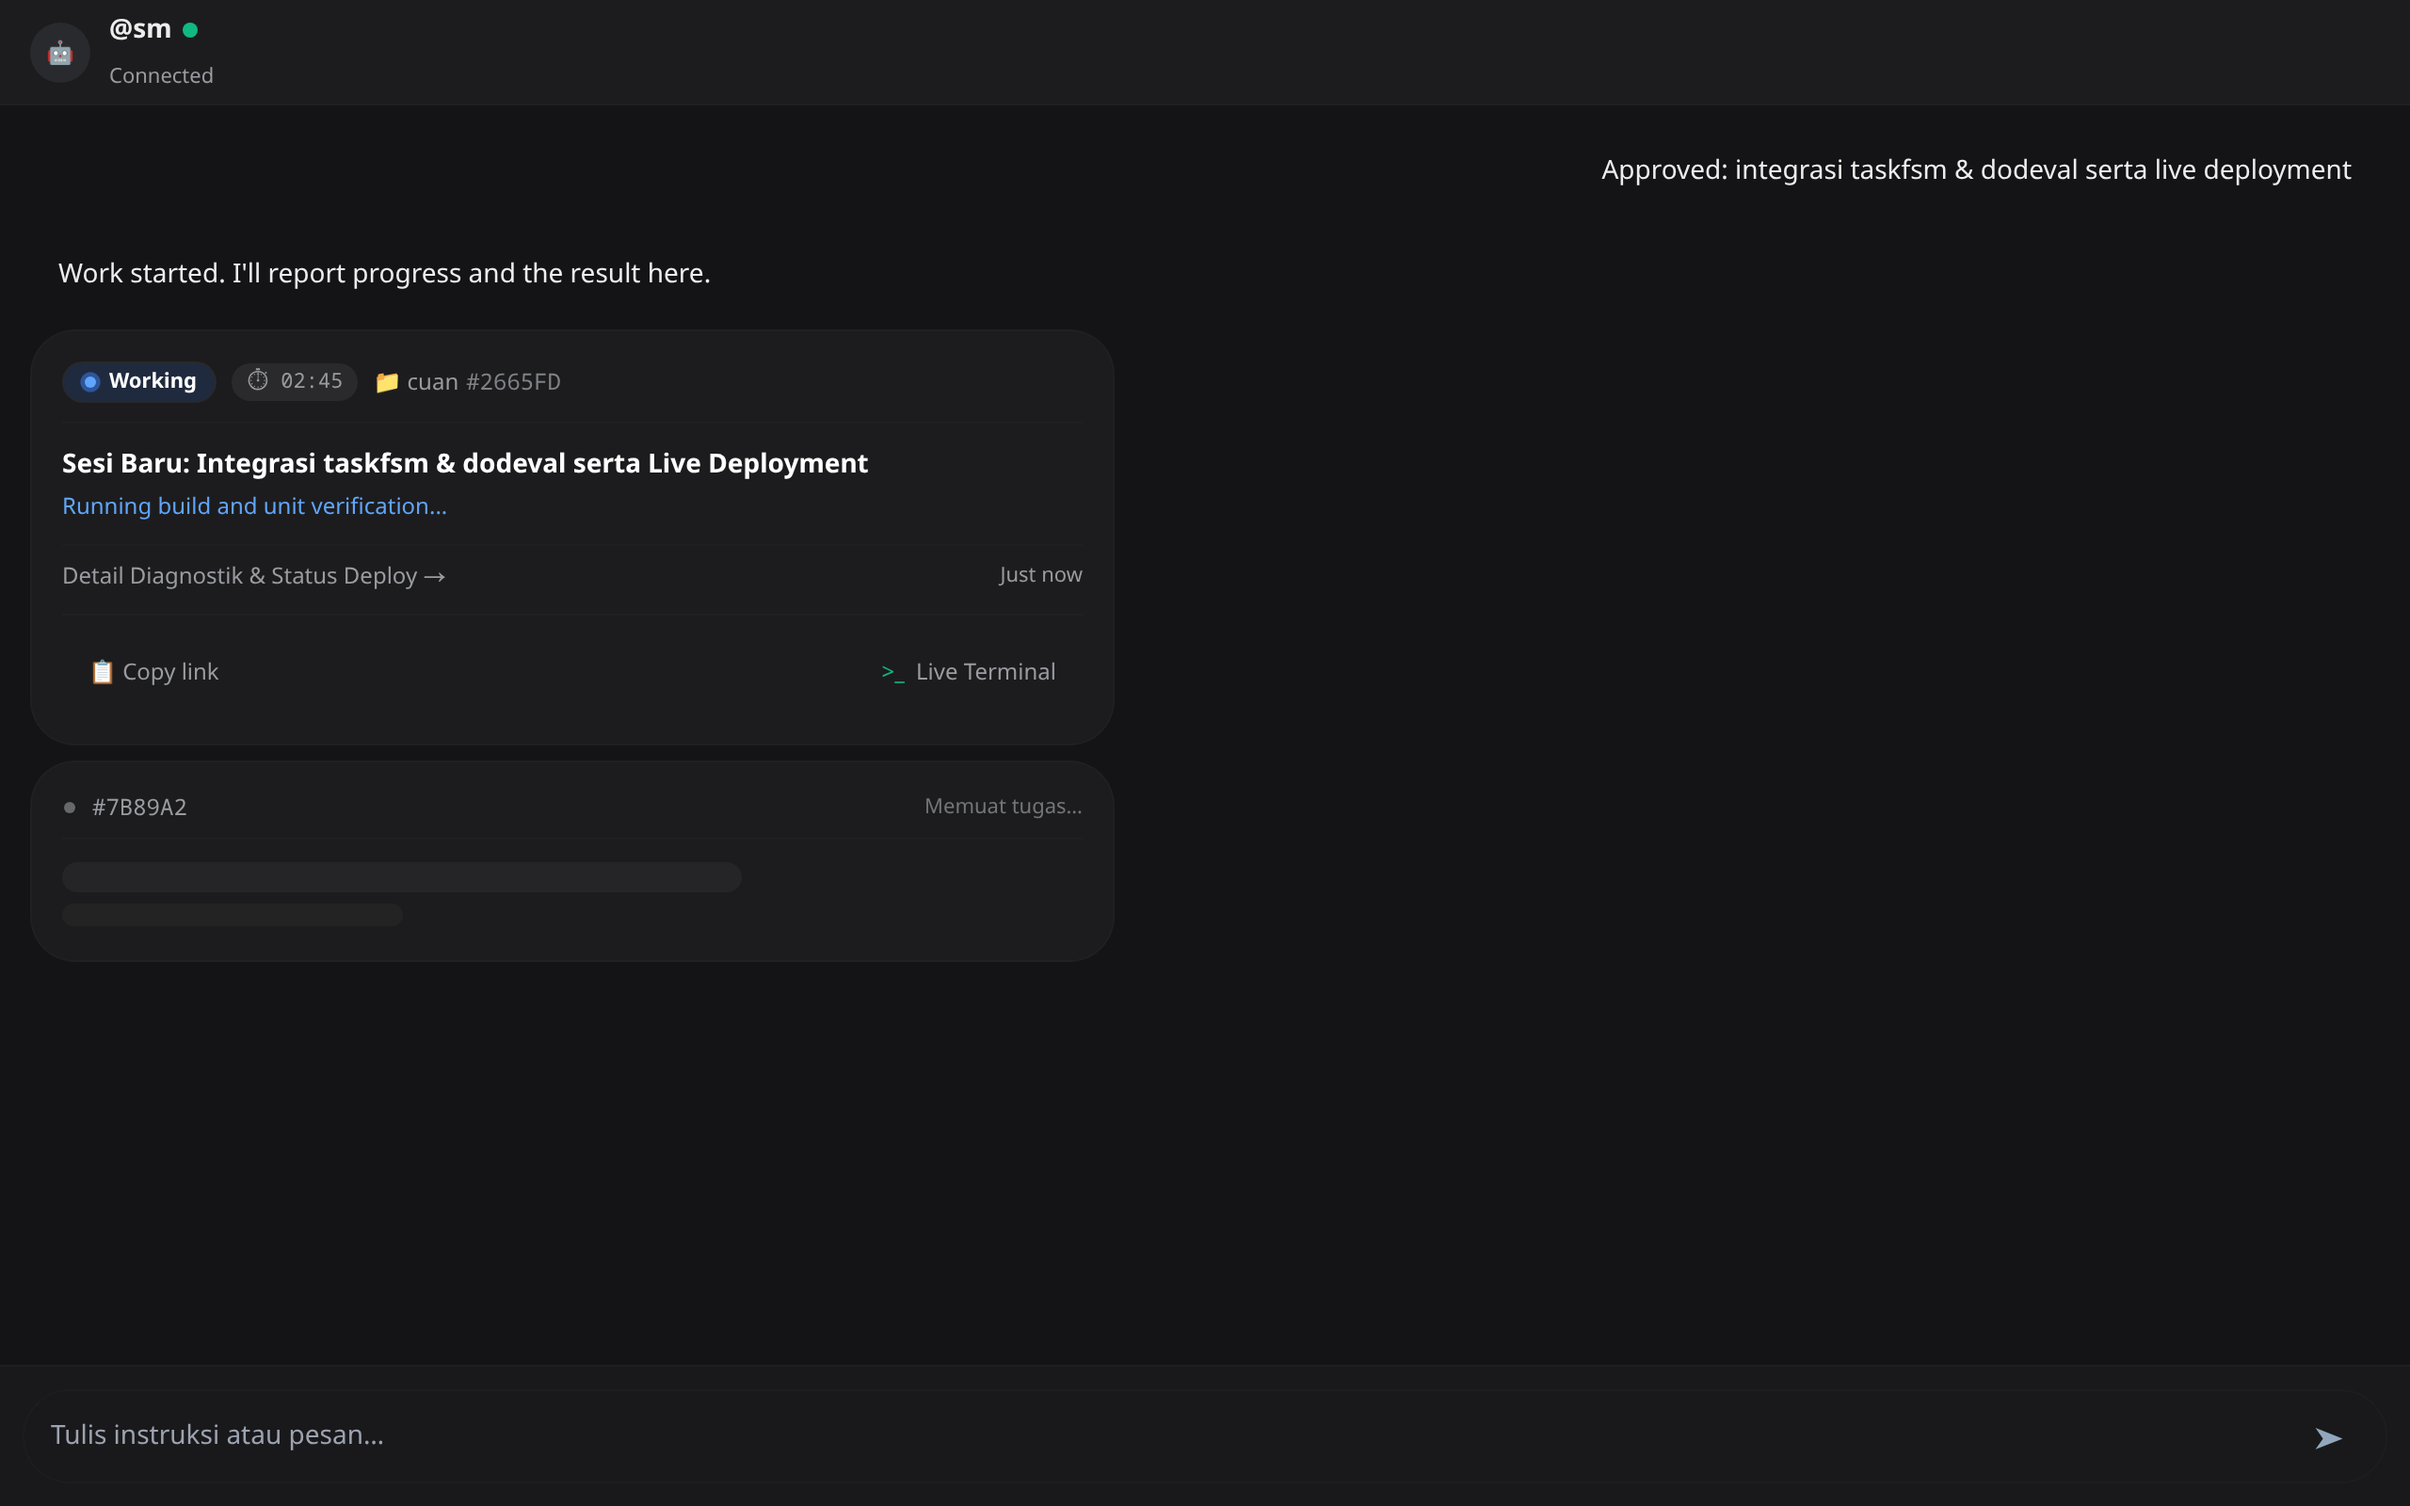
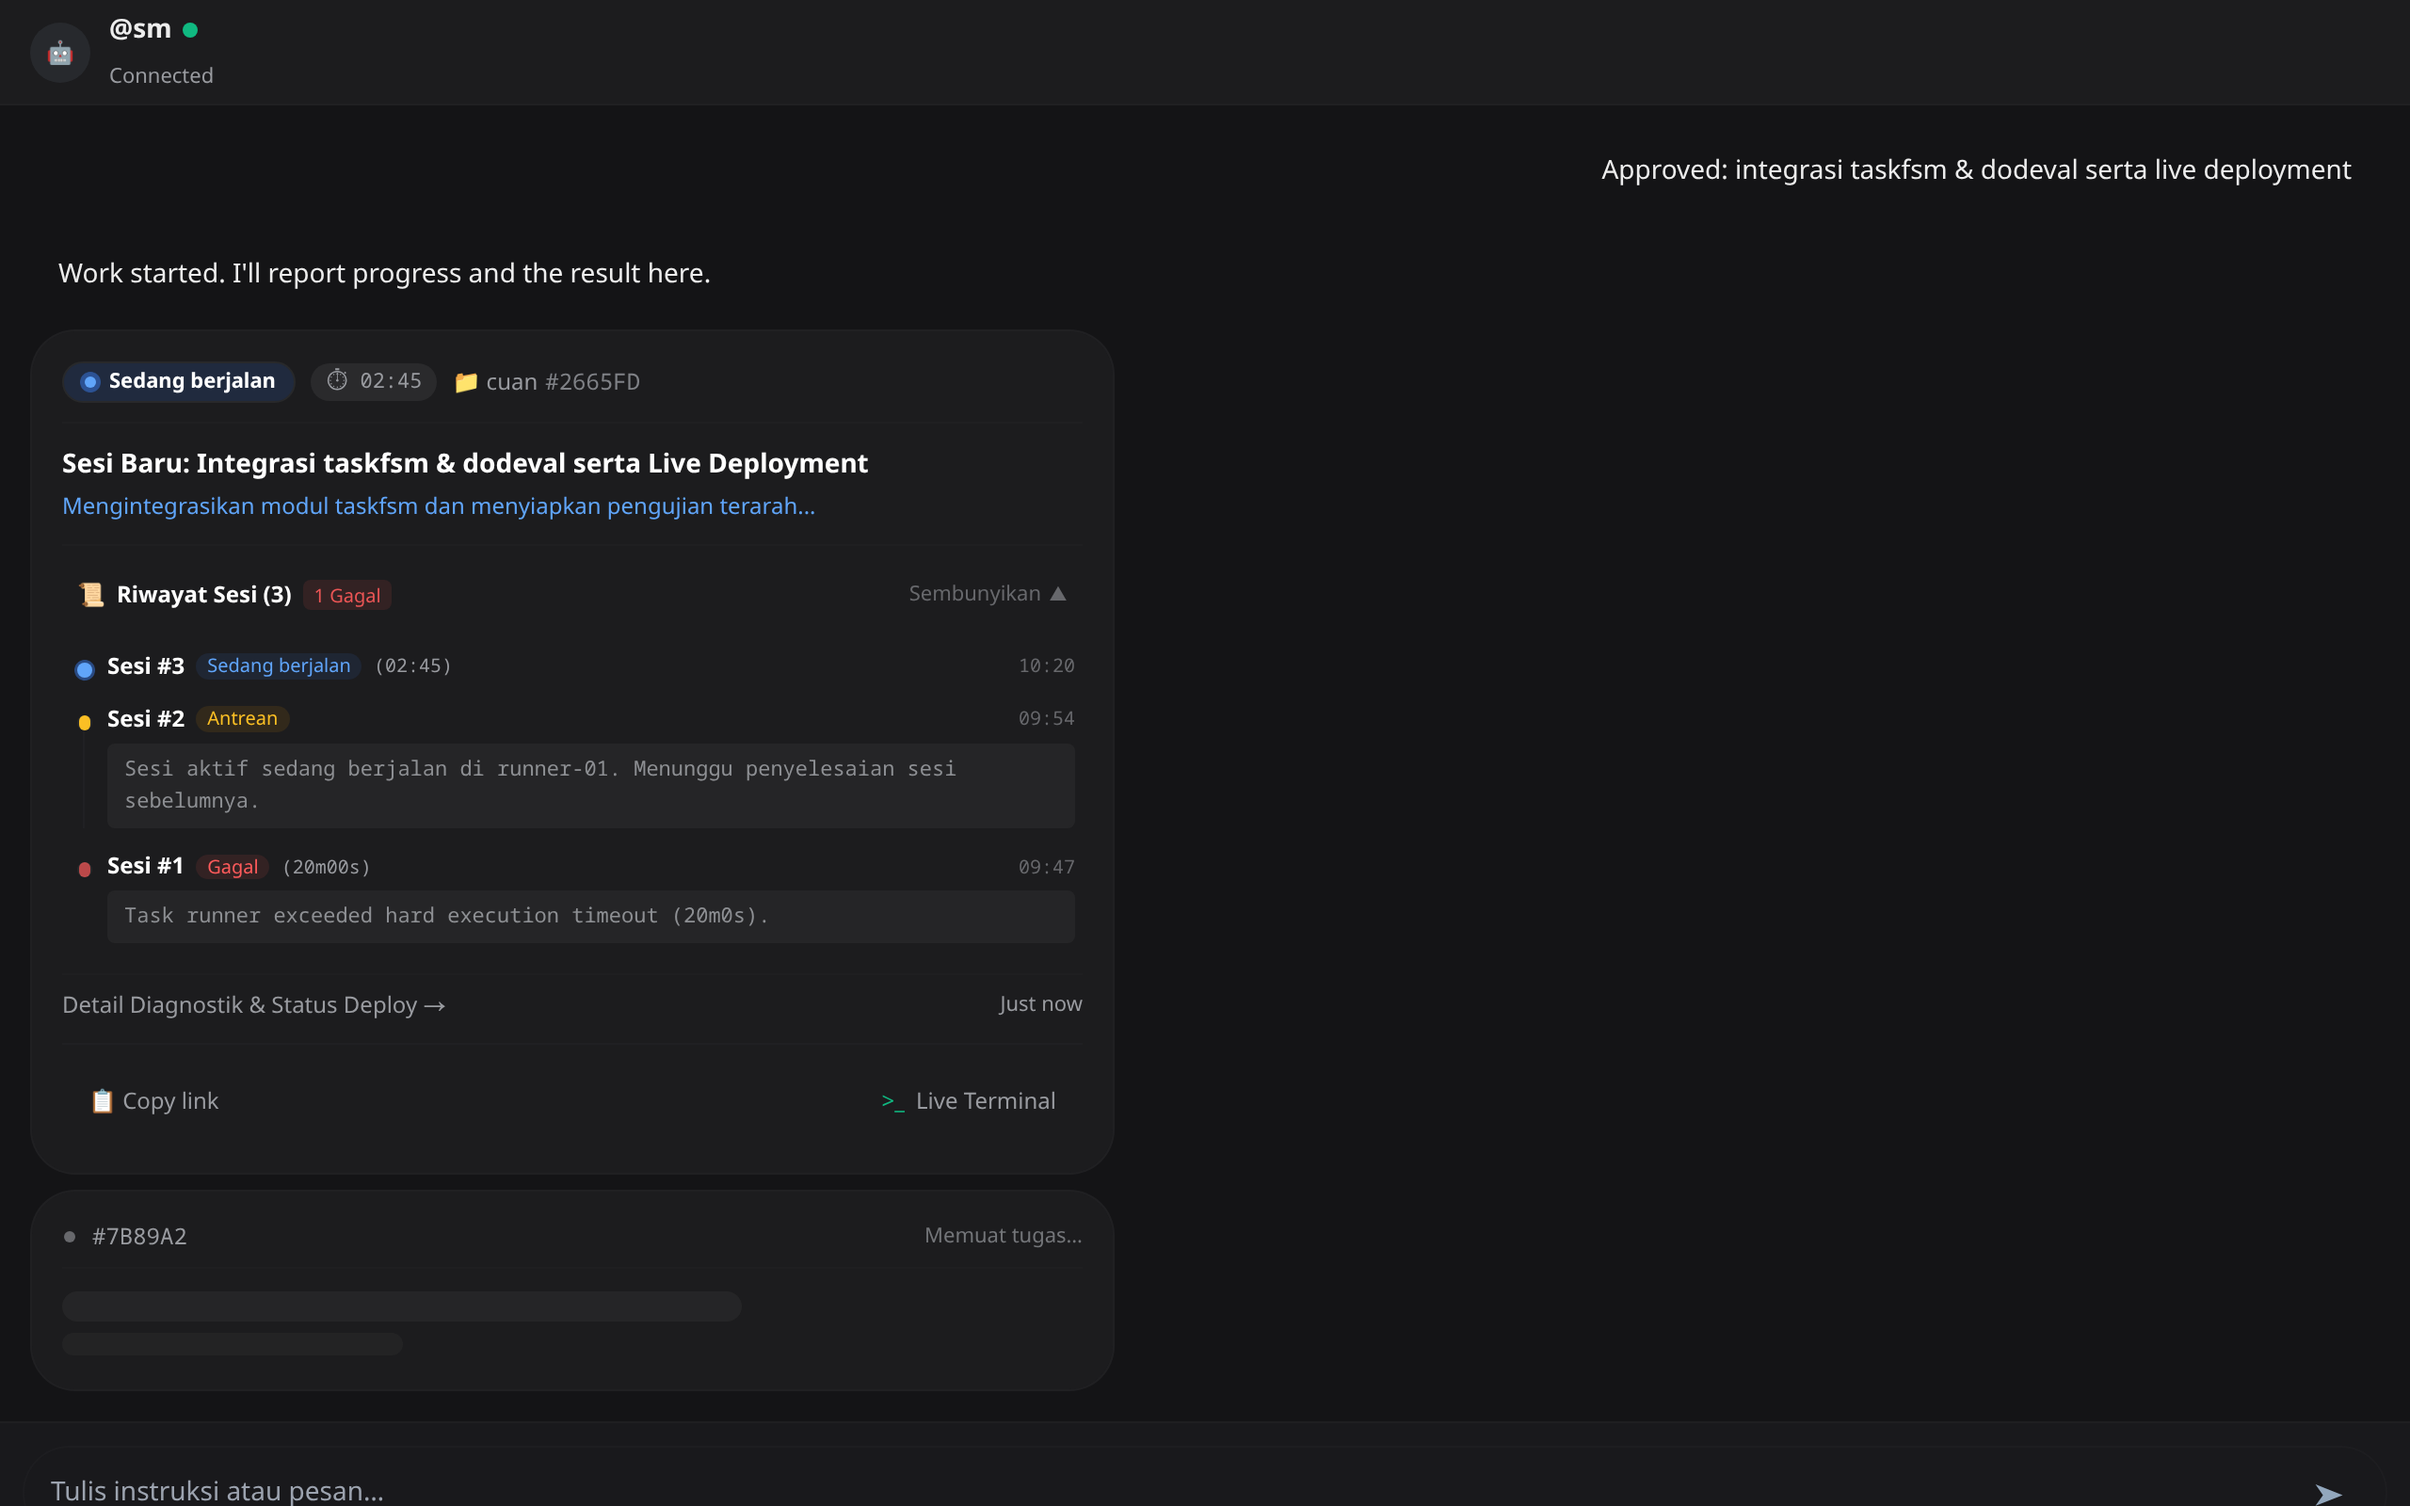
feat(inbox): collapsible session history timeline in TaskCard and launch card deduplication

diff --git a/web/src/features/inbox/TaskCard.tsx b/web/src/features/inbox/TaskCard.tsx
@@ -1,4 +1,4 @@
-import { useState, useEffect, memo } from 'react'
+import { useState, useEffect, memo, useMemo } from 'react'
 import { useNavigate } from 'react-router-dom'
 import {
   Folder,
@@ -11,8 +11,11 @@ import {
   Clock,
   Send,
   Sparkles,
+  History,
+  ChevronDown,
+  ChevronUp,
 } from 'lucide-react'
-import type { Task } from '../../api/types'
+import type { Task, TaskDetail, TaskAttempt } from '../../api/types'
 import { tasksApi } from '../../api/tasks'
 import { useLanguage } from '../../context/LanguageContext'
 import { cn } from '../../lib/utils'
@@ -86,12 +89,28 @@ export const TaskCard = memo(function TaskCard({
   const navigate = useNavigate()
 
   const cached = initialTask || getCachedTask(taskId)
-  const [currentTask, setCurrentTask] = useState<Task | null>(cached || null)
+  const [currentTask, setCurrentTask] = useState<(Task & Partial<TaskDetail>) | null>(cached || null)
   const [loading, setLoading] = useState(!cached)
   const [error, setError] = useState(false)
   const [copied, setCopied] = useState(false)
   const [retrying, setRetrying] = useState(false)
   const [elapsedSeconds, setElapsedSeconds] = useState<number>(0)
+  const [showTimeline, setShowTimeline] = useState(false)
+
+  const attempts = useMemo<TaskAttempt[]>(() => {
+    const list: TaskAttempt[] = [...((currentTask as any)?.attempts || [])]
+    if (list.length === 0 && currentTask?.latest_attempt) {
+      list.push(currentTask.latest_attempt as TaskAttempt)
+    }
+    return list.sort((a, b) => {
+      const numA = a.attempt_number ?? 0
+      const numB = b.attempt_number ?? 0
+      if (numA !== numB) return numB - numA
+      const timeA = new Date(a.created_at || a.started_at || 0).getTime()
+      const timeB = new Date(b.created_at || b.started_at || 0).getTime()
+      return timeB - timeA
+    })
+  }, [currentTask])
 
   useEffect(() => {
     if (initialTask) {
@@ -559,6 +578,154 @@ export const TaskCard = memo(function TaskCard({
           <p className="text-xs text-foreground/90 italic border-l-2 border-primary/40 pl-3 py-1 whitespace-pre-wrap leading-relaxed break-words">
             "{envelopeResult.draft}"
           </p>
+        </div>
+      )}
+
+      {/* Collapsible Session & Attempt History Timeline */}
+      {attempts.length > 0 && (
+        <div
+          data-testid="task-card-timeline-section"
+          onClick={(e) => e.stopPropagation()}
+          className="border-t border-border/30 pt-2 space-y-2 cursor-default"
+        >
+          <button
+            type="button"
+            onClick={() => setShowTimeline((prev) => !prev)}
+            data-testid="task-card-timeline-toggle"
+            aria-expanded={showTimeline}
+            className="w-full flex items-center justify-between py-1 px-2 rounded-lg text-xs font-medium text-muted-foreground hover:text-foreground hover:bg-muted/40 transition-colors select-none min-h-[36px] cursor-pointer"
+          >
+            <div className="flex items-center gap-1.5 min-w-0">
+              <History className="h-3.5 w-3.5 text-muted-foreground/70 shrink-0" />
+              <span className="truncate">{t('Riwayat Sesi')} ({attempts.length})</span>
+              {attempts.some((a) => a.status === 'failed') && (
+                <span className="text-[10px] text-destructive/90 bg-destructive/10 px-1.5 py-0.2 rounded font-sans shrink-0">
+                  {t('Gagal')}
+                </span>
+              )}
+            </div>
+            <div className="flex items-center gap-1 text-[11px] text-muted-foreground/60 shrink-0">
+              <span>{showTimeline ? t('Sembunyikan') : t('Lihat')}</span>
+              {showTimeline ? (
+                <ChevronUp className="h-3.5 w-3.5 shrink-0" />
+              ) : (
+                <ChevronDown className="h-3.5 w-3.5 shrink-0" />
+              )}
+            </div>
+          </button>
+
+          {showTimeline && (
+            <div
+              data-testid="task-card-timeline-content"
+              className="space-y-3 pt-1 pb-1 px-1 text-xs select-text animate-in fade-in-50 duration-150"
+            >
+              {attempts.map((att, idx) => {
+                const isRunning = att.status === 'running'
+                const isQueued = att.status === 'queued'
+                const isFailed =
+                  att.status === 'failed' ||
+                  att.status === 'canceled' ||
+                  att.status === 'interrupted'
+                const isDone = att.status === 'succeeded'
+                const attemptNum = att.attempt_number ?? (attempts.length - idx)
+
+                let durationText = ''
+                if (att.started_at && att.finished_at) {
+                  const diffSec = Math.round(
+                    (new Date(att.finished_at).getTime() -
+                      new Date(att.started_at).getTime()) /
+                      1000
+                  )
+                  if (diffSec > 0) durationText = formatDuration(diffSec)
+                }
+
+                return (
+                  <div
+                    key={att.id || `att-${idx}`}
+                    data-testid={`task-attempt-row-${attemptNum}`}
+                    className="relative pl-5 text-xs select-text"
+                  >
+                    {/* Vertical timeline connector */}
+                    {idx < attempts.length - 1 && (
+                      <div className="absolute left-[7px] top-3.5 bottom-0 w-[1px] bg-border/40 pointer-events-none" />
+                    )}
+
+                    {/* Status dot */}
+                    <div className="absolute left-1 top-1.5 h-2 w-2 rounded-full border border-card flex items-center justify-center">
+                      {isRunning ? (
+                        <span className="relative flex h-2 w-2">
+                          <span className="animate-ping absolute inline-flex h-full w-full rounded-full bg-blue-500 opacity-75" />
+                          <span className="relative inline-flex rounded-full h-2 w-2 bg-blue-600 dark:bg-blue-400" />
+                        </span>
+                      ) : isQueued ? (
+                        <span className="inline-flex rounded-full h-2 w-2 bg-amber-500 dark:bg-amber-400" />
+                      ) : isFailed ? (
+                        <span className="inline-flex rounded-full h-2 w-2 bg-destructive/70" />
+                      ) : isDone ? (
+                        <span className="inline-flex rounded-full h-2 w-2 bg-emerald-500" />
+                      ) : (
+                        <span className="inline-flex rounded-full h-2 w-2 bg-muted-foreground/50" />
+                      )}
+                    </div>
+
+                    {/* Attempt header */}
+                    <div className="flex flex-wrap items-center justify-between gap-1 leading-snug">
+                      <div className="flex items-center gap-1.5 min-w-0">
+                        <span className="font-semibold text-foreground">
+                          {t('Sesi')} #{attemptNum}
+                        </span>
+                        <span
+                          className={cn(
+                            'text-[10px] px-1.5 py-0.2 rounded-full font-medium',
+                            isRunning &&
+                              'bg-blue-500/10 text-blue-600 dark:text-blue-400',
+                            isQueued &&
+                              'bg-amber-500/10 text-amber-600 dark:text-amber-400',
+                            isFailed && 'bg-destructive/10 text-destructive',
+                            isDone &&
+                              'bg-emerald-500/10 text-emerald-600 dark:text-emerald-400',
+                            !isRunning &&
+                              !isQueued &&
+                              !isFailed &&
+                              !isDone &&
+                              'bg-muted text-muted-foreground'
+                          )}
+                        >
+                          {t(att.status || 'unknown')}
+                        </span>
+                        {durationText && (
+                          <span className="text-[10px] text-muted-foreground font-mono">
+                            ({durationText})
+                          </span>
+                        )}
+                      </div>
+
+                      {(att.started_at || att.created_at) && (
+                        <time
+                          dateTime={att.started_at || att.created_at}
+                          className="text-[10px] text-muted-foreground/60 font-mono"
+                        >
+                          {new Date(
+                            att.started_at || att.created_at
+                          ).toLocaleTimeString([], {
+                            hour: '2-digit',
+                            minute: '2-digit',
+                          })}
+                        </time>
+                      )}
+                    </div>
+
+                    {/* Detailed error or progress message */}
+                    {att.error_message && (
+                      <p className="mt-1 text-[11px] text-muted-foreground/90 bg-muted/40 border border-border/30 rounded px-2 py-1 font-mono break-words leading-relaxed">
+                        {att.error_message}
+                      </p>
+                    )}
+                  </div>
+                )
+              })}
+            </div>
+          )}
         </div>
       )}
 

diff --git a/web/src/features/inbox/InboxView.tsx b/web/src/features/inbox/InboxView.tsx
@@ -1517,6 +1517,32 @@ export function InboxView({
                   }
                 }
 
+                // Suppress duplicate/obsolete boilerplate launch progress messages ("Work started...", "The work is saved, but could not start...")
+                // if a later message in the room already references the same task.
+                // This eliminates redundant stacked task cards in the chat stream.
+                const isBoilerplateLaunchMessage =
+                  msgContent.startsWith('Work started. I’ll report progress and the result here.') ||
+                  msgContent.startsWith("Work started. I'll report progress and the result here.") ||
+                  msgContent.startsWith('The work is saved, but could not start.') ||
+                  msgContent.startsWith('The work is waiting for an available AI session.') ||
+                  msgContent.startsWith('The work is queued waiting for the active project task') ||
+                  msgContent.startsWith('The work is waiting to start. I’ll report progress here.') ||
+                  msgContent.startsWith("The work is waiting to start. I'll report progress here.")
+
+                if (isBoilerplateLaunchMessage) {
+                  const taskIdMatch = msgContent.match(/\/tasks\/([A-Za-z0-9_-]+)/)
+                  if (taskIdMatch) {
+                    const taskId = taskIdMatch[1]
+                    const hasLaterTaskMessage = messages.slice(index + 1).some((m) => {
+                      const laterContent = m.content || m.message || ''
+                      return laterContent.includes(`/tasks/${taskId}`)
+                    })
+                    if (hasLaterTaskMessage) {
+                      return null
+                    }
+                  }
+                }
+
                 const date = new Date(msg.created_at)
                 const showDate =
                   Number.isFinite(date.getTime()) &&
